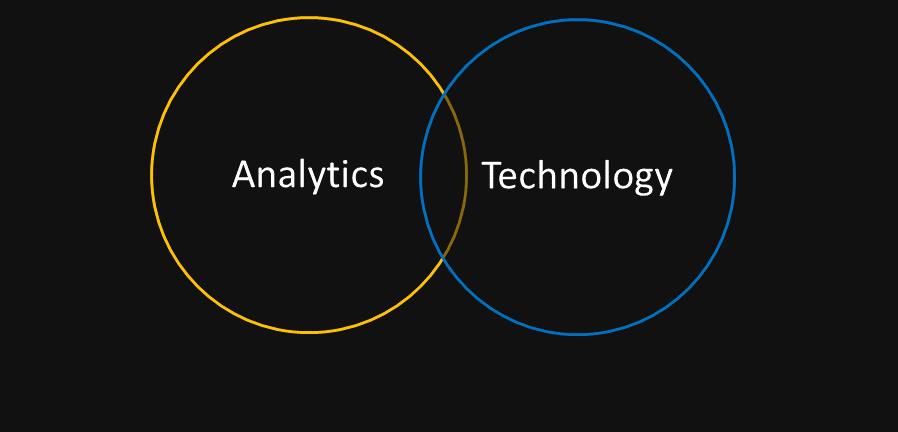
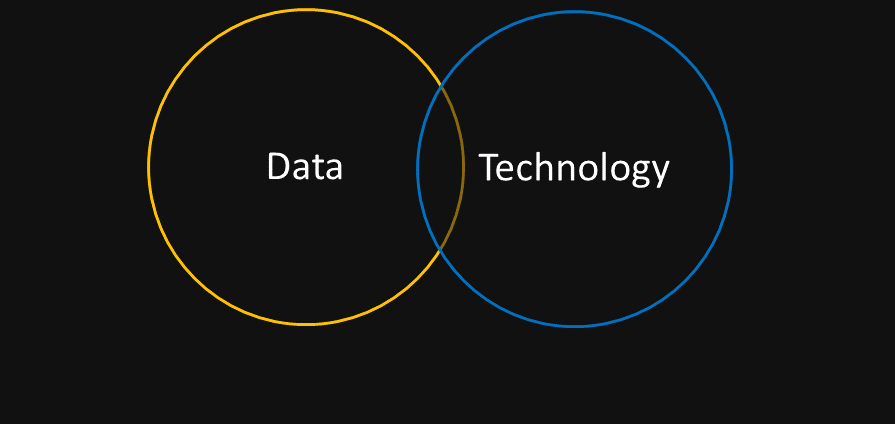
change pic, reformat index

diff --git a/home.css b/home.css
@@ -12,3 +12,6 @@
 		font-size: 20px !important;
 		text-align: center !important;
       }
+	  a:hover {
+	   text-decoration:none;
+	  }	

diff --git a/home_mobile.css b/home_mobile.css
@@ -16,3 +16,6 @@
 		  width: 100% !important;
 		  height: 100% !important;
 	  }
+	  a:hover {
+	   text-decoration:none;
+	  }	
